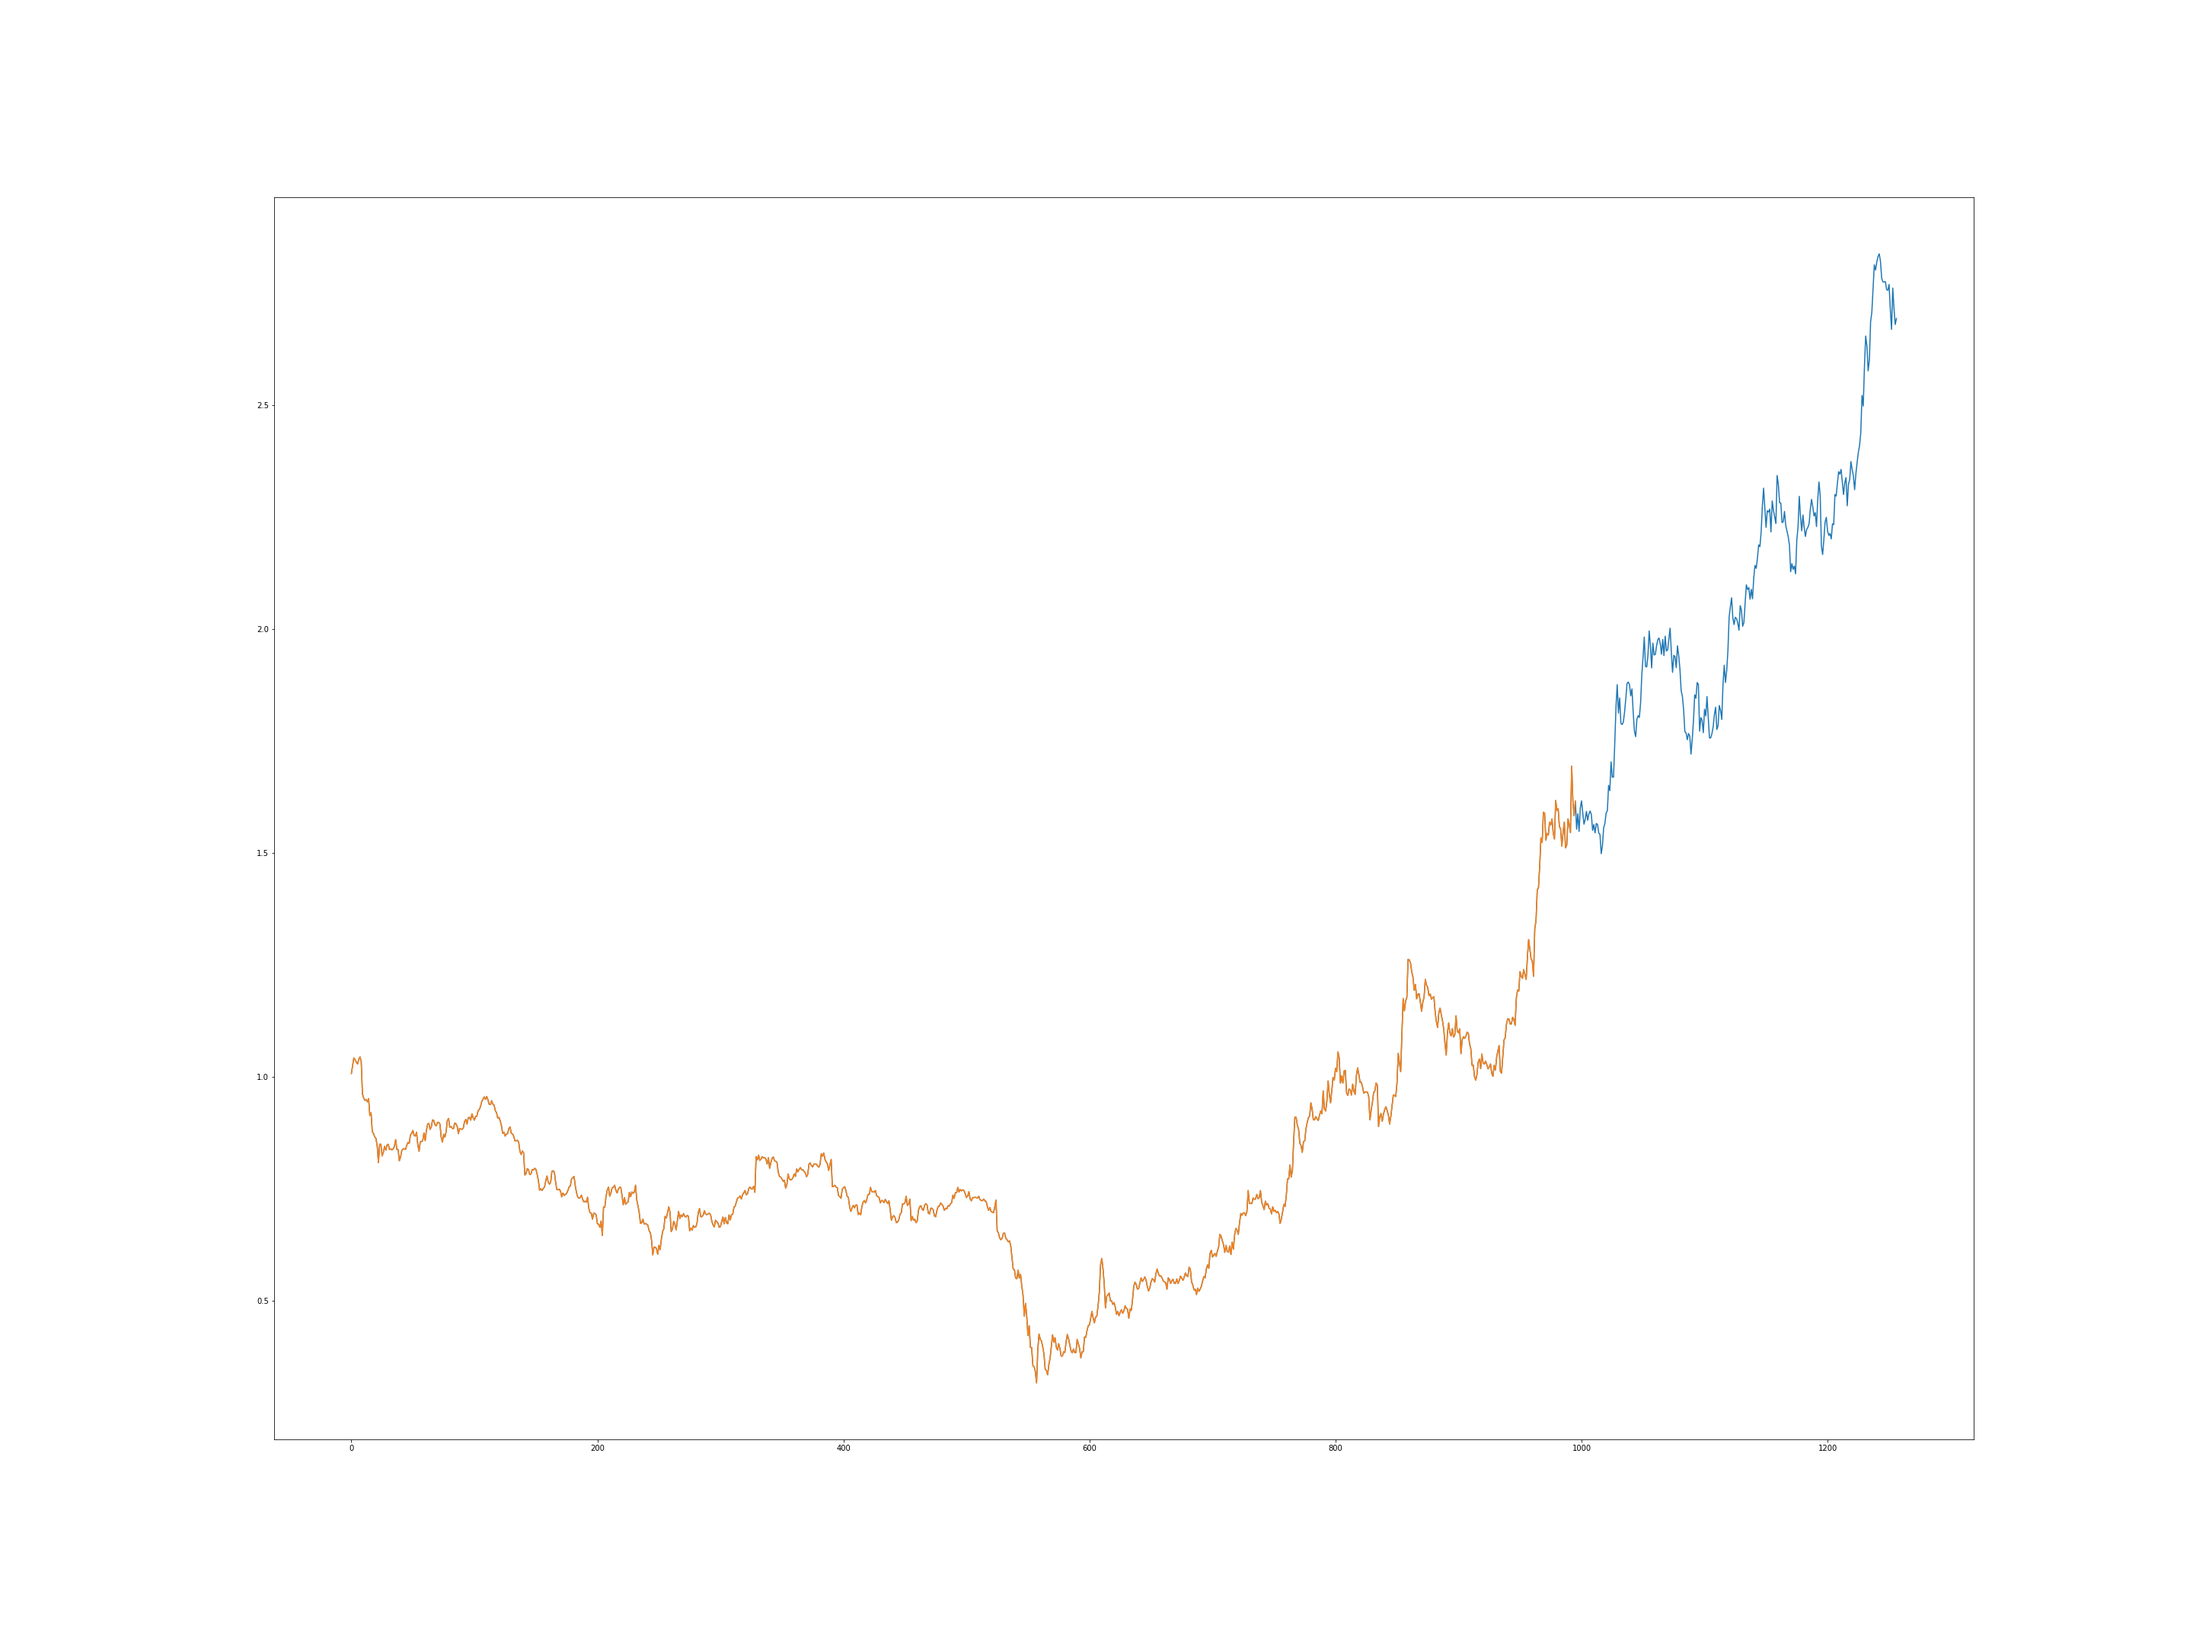
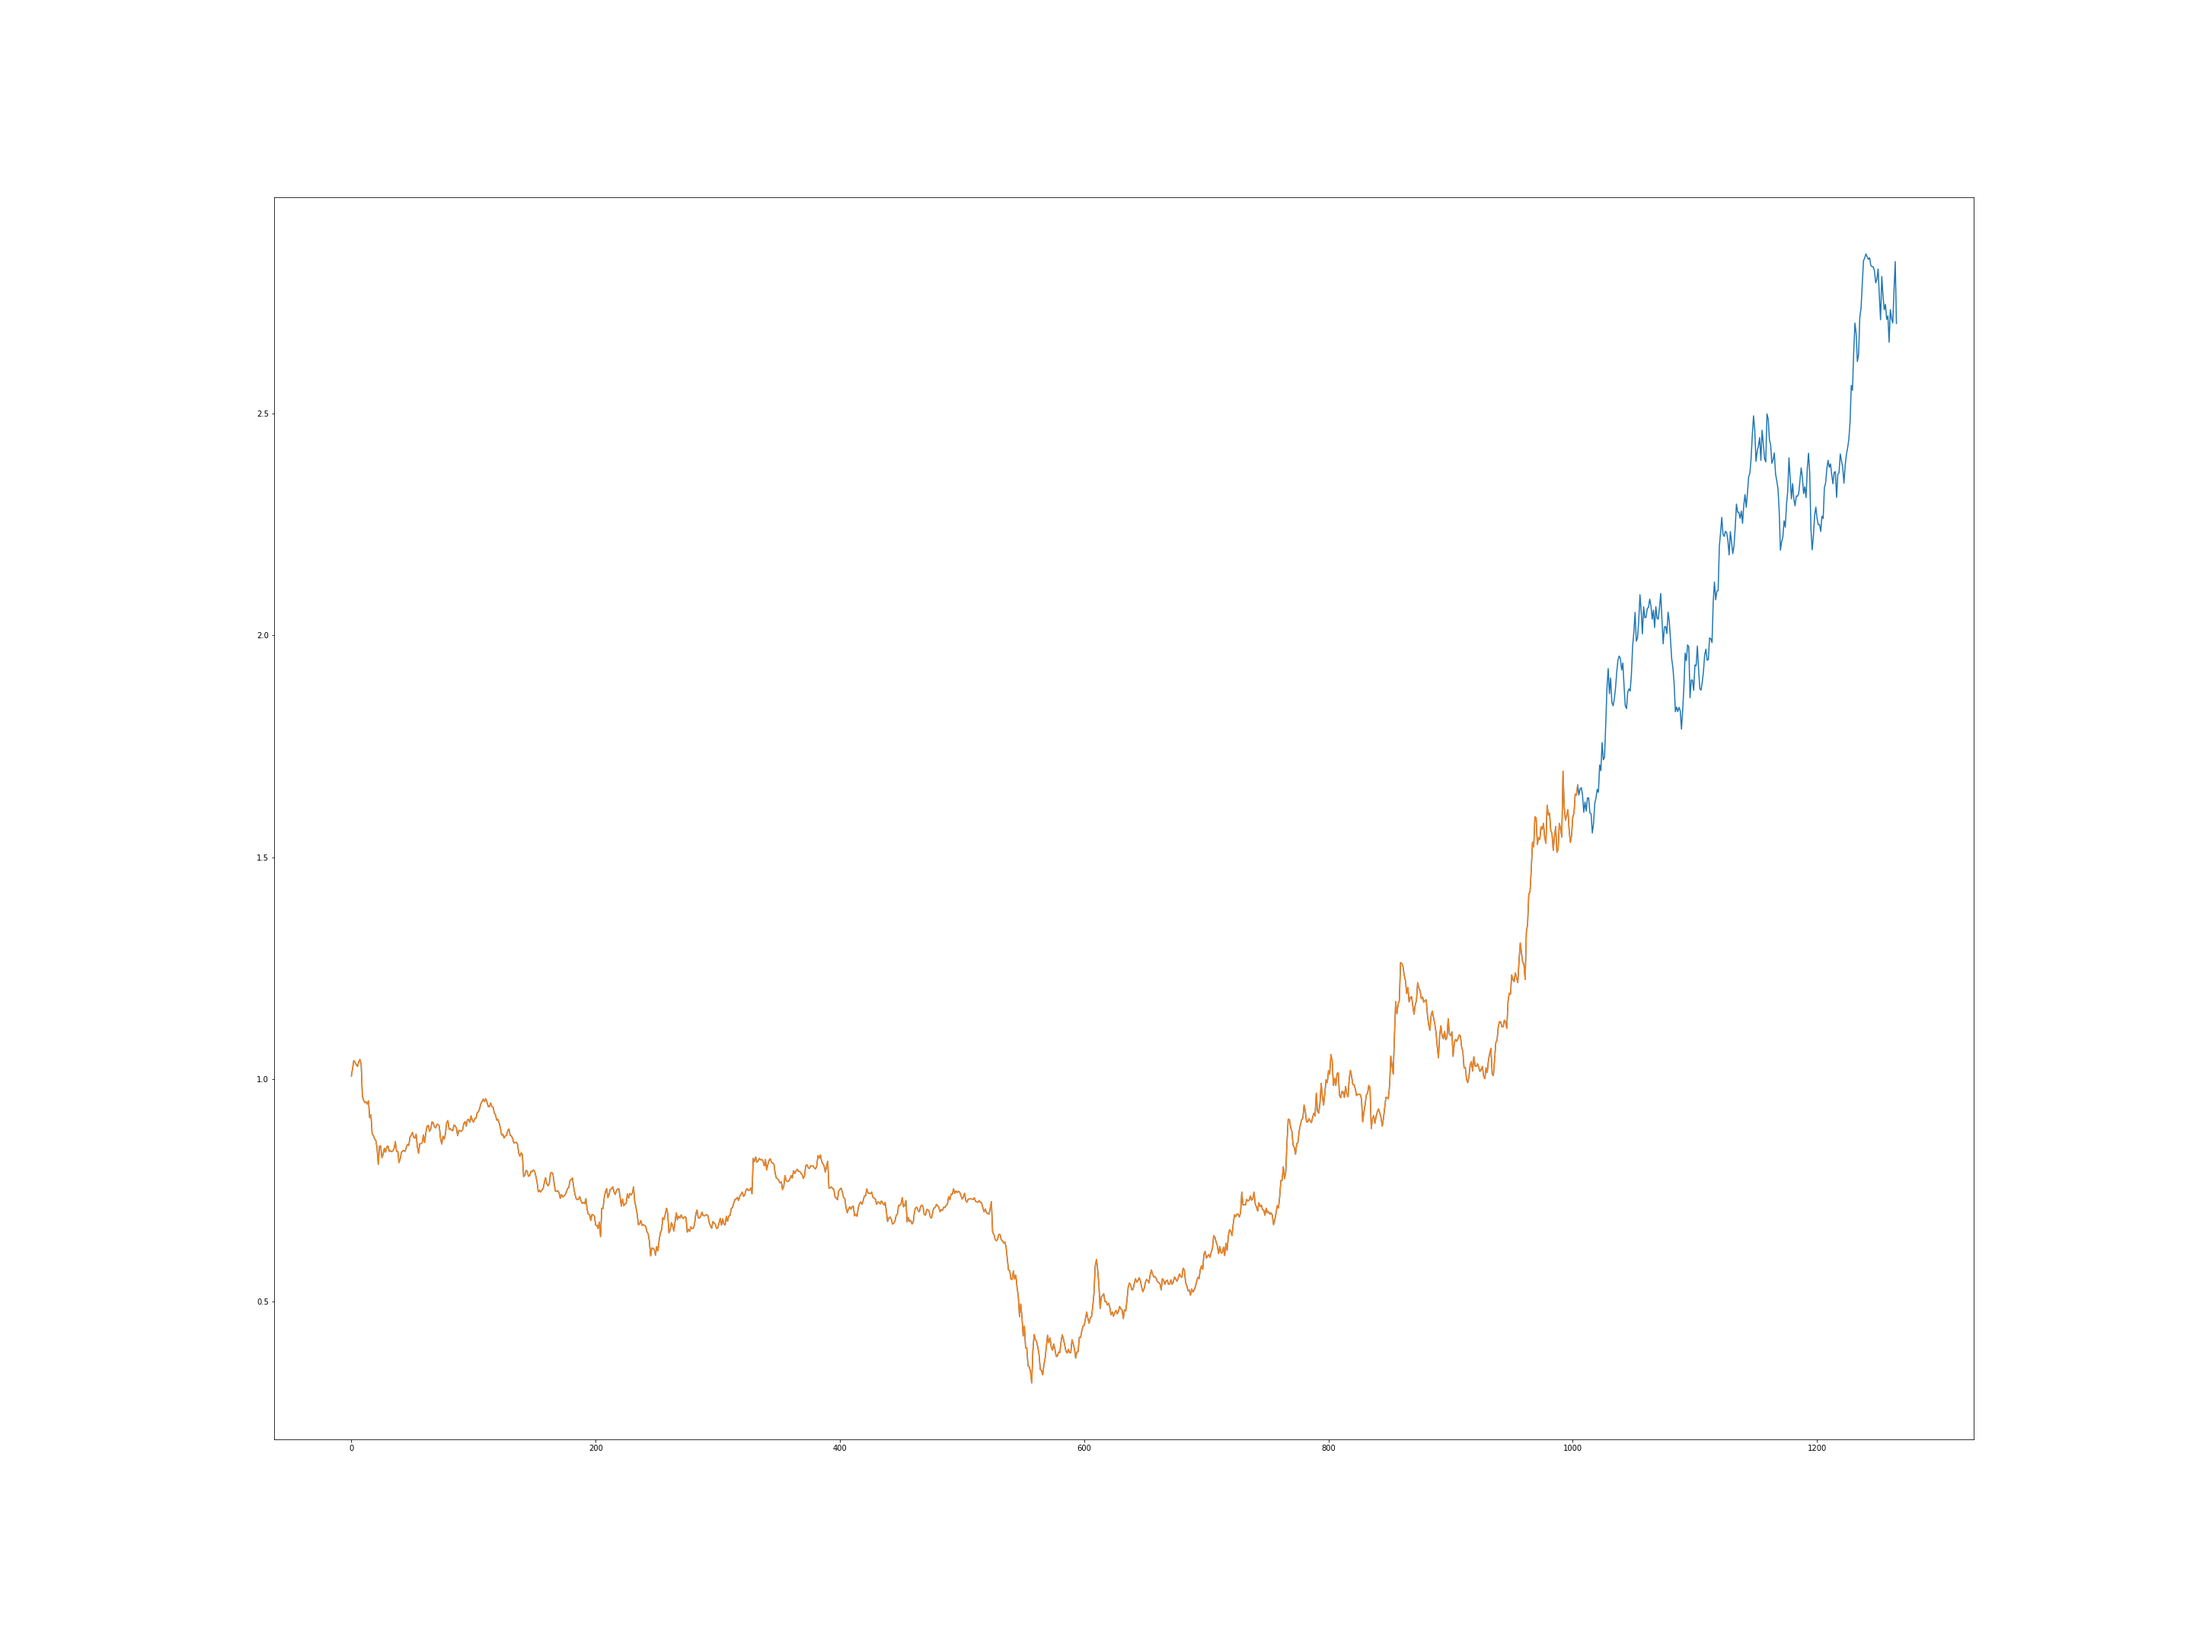
fixed same articles showing in data

diff --git a/Send_Data.py b/Send_Data.py
@@ -48,7 +48,7 @@ Uber=yf.download('UBER', actions=False)
 Microsoft=yf.download('MSFT', start='2015-1-2', actions=False)
 Amazon=yf.download('AMZN', start='2017-10-1', actions=False)
 Zoom=yf.download('ZM', actions=False)
-Tesla=yf.download('TSLA', actions=False)
+Tesla=yf.download('TSLA', start='2020-1-1')
 SMP500=yf.download('^GSPC', start='2020-1-1')
 
 
@@ -158,7 +158,7 @@ train_send("heinz",Heinz, -1, 0, -1)
 
 key='image_url'
 
-limit = '1000'
+limit = '25'
 date = str(date.today())
 api_url = f'https://api.polygon.io/v2/reference/news?published_utc={date}&limit={limit}&apiKey=BpYLj3XDxfQZfCGlB3OiySFQTzWPBIvK'
 # api_url = f'https://api.polygon.io/v2/reference/news?limit={limit}&apiKey=BpYLj3XDxfQZfCGlB3OiySFQTzWPBIvK'
@@ -169,42 +169,41 @@ key='image_url'
 z=0
 q=0
 
-
 while z <= amount:
     
-    x=randint(0,50)
+    for x in range (data['count']):
 
-    if ((key in data['results'][x]) and (data['results'][x]['publisher']['name'] != 'Zacks Investment Research')):
-              
-       id = data['results'][x]['id']
-       url = data['results'][x]['article_url']
-       title = data['results'][x]['title']
-       publisher = data['results'][x]['publisher']['name']
-       thumbnail = data['results'][x]['image_url']
-       if 'keywords' in data['results'][x]:
-          keywords = data['results'][x]['keywords']
-       else:
-         keywords = []
-       api_publish = data['results'][x]['published_utc']
-       parsed_api_publish = dp.parse(api_publish)
-       parsed_api_publish_in_seconds = parsed_api_publish.timestamp()
-       parsed_api_publish_in_seconds=int(parsed_api_publish_in_seconds)
-       ticker = data['results'][x]['tickers']
-       tickers = [i for n, i in enumerate(ticker) if i not in ticker[:n]]
-       locals()["news" + str(q)] = {
-                                  "id": id,
-                                  "url": url,
-                                  "title": title,
-                                  "publisher": publisher,
-                                  "publishDate": parsed_api_publish_in_seconds,
-                                  "thumbnail": thumbnail,
-                                  "keywords": keywords,
-                                  "tickers": tickers
-                                  }
-       z=z+1
-       q=q+1
-    else:
-        z=z+1
+        if ((key in data['results'][x]) and (data['results'][x]['publisher']['name'] != 'Zacks Investment Research')):
+                  
+           id = data['results'][x]['id']
+           url = data['results'][x]['article_url']
+           title = data['results'][x]['title']
+           publisher = data['results'][x]['publisher']['name']
+           thumbnail = data['results'][x]['image_url']
+           if 'keywords' in data['results'][x]:
+              keywords = data['results'][x]['keywords']
+           else:
+             keywords = []
+           api_publish = data['results'][x]['published_utc']
+           parsed_api_publish = dp.parse(api_publish)
+           parsed_api_publish_in_seconds = parsed_api_publish.timestamp()
+           parsed_api_publish_in_seconds=int(parsed_api_publish_in_seconds)
+           ticker = data['results'][x]['tickers']
+           tickers = [i for n, i in enumerate(ticker) if i not in ticker[:n]]
+           locals()["news" + str(q)] = {
+                                      "id": id,
+                                      "url": url,
+                                      "title": title,
+                                      "publisher": publisher,
+                                      "publishDate": parsed_api_publish_in_seconds,
+                                      "thumbnail": thumbnail,
+                                      "keywords": keywords,
+                                      "tickers": tickers
+                                      }
+           z=z+1
+           q=q+1
+        else:
+            z=z+1
 
 for i in range(25):
     news.append(locals()["news" + str(i)]) 

diff --git a/Stockscast_Model.py b/Stockscast_Model.py
@@ -31,10 +31,10 @@ random.seed(10)
 # data=yf.download('MSFT', start='2015-1-2')
 # data=yf.download('AMZN', start='2018-10-1')
 # data=yf.download('ZM') lags=300
-# data=yf.download('TSLA')
+data=yf.download('TSLA', start='2020-1-1')
 # data=yf.download('NVDA', start='2000-1-2')
 # data=yf.download('AMD', start='2000-1-2')
-data=yf.download('^GSPC', start='2020-1-1', actions=False)
+# data=yf.download('^GSPC', start='2020-1-1', actions=False)
 
 #data restructure
 data.reset_index(inplace=True,drop=False)

diff --git a/Stockscast_Data.py b/Stockscast_Data.py
@@ -10,6 +10,9 @@ date = str(date.today())
 api_url = f'https://api.polygon.io/v2/reference/news?published_utc={date}&limit={limit}&apiKey=BpYLj3XDxfQZfCGlB3OiySFQTzWPBIvK'
 data = requests.get(api_url).json()
 
+data
+
+
 for x in range (data['count']):
   id = data['results'][x]['id']
   url = data['results'][x]['article_url']
